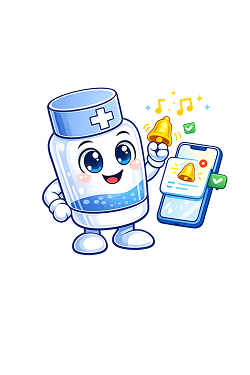
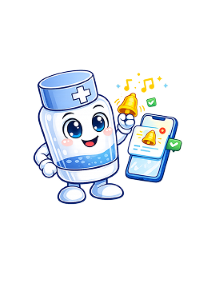
feat: Add allow notifications

diff --git a/frontend/lib/features/doctor/features/complete_profile/presentation/widgets/permission_sheet.dart b/frontend/lib/features/doctor/features/complete_profile/presentation/widgets/permission_sheet.dart
@@ -1,0 +1,120 @@
+import 'dart:ui';
+
+import 'package:flutter/material.dart';
+import 'package:flutter_svg/svg.dart';
+import 'package:medi/core/constants/app_assets.dart';
+import 'package:medi/core/constants/app_colors.dart';
+import 'package:medi/core/constants/app_sizes.dart';
+import 'package:medi/core/widgets/primary_button.dart';
+
+class PermissionSheet extends StatefulWidget {
+  const PermissionSheet({super.key});
+
+  @override
+  State<PermissionSheet> createState() => _PermissionSheetState();
+}
+
+class _PermissionSheetState extends State<PermissionSheet>
+    with SingleTickerProviderStateMixin {
+  late AnimationController controller;
+  late Animation<double> scale;
+  late Animation<double> opacity;
+
+  @override
+  void initState() {
+    super.initState();
+
+    controller = AnimationController(
+      vsync: this,
+      duration: const Duration(milliseconds: 350),
+    );
+
+    scale = Tween(
+      begin: .9,
+      end: 1.0,
+    ).animate(CurvedAnimation(parent: controller, curve: Curves.easeOutBack));
+
+    opacity = Tween(begin: 0.0, end: 1.0).animate(controller);
+
+    controller.forward();
+  }
+
+  @override
+  Widget build(BuildContext context) {
+    return SafeArea(
+      child: Padding(
+        padding: EdgeInsets.all(AppSizes.w16),
+        child: 
+             ScaleTransition(
+              scale: scale,
+              child: Container(
+                padding: const EdgeInsets.all(22),
+                decoration: BoxDecoration(
+                  color: Colors.white,
+                  borderRadius: BorderRadius.all(Radius.circular(AppSizes.r40)),
+                  boxShadow: [
+                    BoxShadow(
+                      blurRadius: 30,
+                      color: Colors.black12,
+                      offset: Offset(0, -5),
+                    ),
+                  ],
+                ),
+                child: Column(
+                  crossAxisAlignment: CrossAxisAlignment.stretch,
+                  mainAxisSize: MainAxisSize.min,
+                  children: [
+                    SvgPicture.asset(
+                      AppAssets.notifications,
+                      height: AppSizes.h40,
+                    ),
+
+                    const SizedBox(height: 16),
+                    RichText(
+                      textAlign: TextAlign.center,
+                      text: TextSpan(
+                        style: TextStyle(
+                          fontSize: 17,
+                          fontWeight: FontWeight.w600,
+                          color: Colors.black,
+                        ),
+                        children: [
+                          TextSpan(text: "Allow "),
+                          TextSpan(
+                            text: "Medi",
+                            style: TextStyle(
+                              fontWeight: FontWeight.bold,
+                              color: AppColors.primaryDark,
+                            ),
+                          ),
+                          TextSpan(text: " to send you notifications?"),
+                        ],
+                      ),
+                    ),
+
+                    const SizedBox(height: 28),
+
+                    PrimaryButton(
+                      text: "Allow",
+                      onPressed: () => Navigator.pop(context),
+                    ),
+
+                    const SizedBox(height: 12),
+                    PrimaryButton(
+                      text: "Don’t allow",
+                      onPressed: () => Navigator.pop(context),
+                      backgroundColor: Colors.white,
+                      textColor: AppColors.primary,
+                    ),
+
+                    const SizedBox(height: 10),
+                  ],
+                ),
+              ),
+            ),
+          ),
+        
+      
+    );
+  }
+}

diff --git a/frontend/lib/features/doctor/features/complete_profile/presentation/screens/allow_notification_screen.dart b/frontend/lib/features/doctor/features/complete_profile/presentation/screens/allow_notification_screen.dart
@@ -1,0 +1,73 @@
+import 'package:flutter/material.dart';
+import 'package:medi/core/core.dart';
+import 'package:medi/features/auth/presentation/widgets/forgot_password_button.dart';
+import 'package:medi/core/widgets/custom_text_button2.dart';
+import 'package:medi/features/doctor/features/complete_profile/presentation/widgets/permission_sheet.dart';
+
+class AllowNotificationScreen extends StatelessWidget {
+  const AllowNotificationScreen({super.key});
+  @override
+  Widget build(BuildContext context) {
+    return Scaffold(
+      body: SafeArea(
+        child: SingleChildScrollView(
+          padding: EdgeInsets.symmetric(
+            horizontal: AppSizes.w16,
+            vertical: AppSizes.h32,
+          ),
+          child: Column(
+            crossAxisAlignment: CrossAxisAlignment.stretch,
+            children: [
+              SizedBox(height: AppSizes.h40),
+                Image.asset(
+                AppAssets.allowNotification,
+                height: AppSizes.h300,
+                fit: BoxFit.contain,
+              ),
+              // Profile Completed Title
+              Text(
+                AppStrings.stayUpdated,
+                style: AppStyles.black24700.copyWith(color: AppColors.primary),
+                textAlign: TextAlign.center,
+              ),
+              SizedBox(height: AppSizes.h16),
+              // Subtitle
+              Text(  AppStrings.turnOnNotifications,
+                style: AppStyles.tertiary14500,
+                textAlign: TextAlign.center,
+              ),
+              SizedBox(height: AppSizes.h24),
+
+            
+              // Let's Start Button
+              PrimaryButton(
+                text: AppStrings.allowNotifications,
+                onPressed: () {
+                 
+                     _showPermissionSheet(context);
+                 
+                  }
+              ),
+              SizedBox(height: AppSizes.h16),
+              CustomTextButton2(
+                route: AppRouter.mainLayout,
+                label: AppStrings.noThanks,
+              )
+            ],
+          ),
+        ),
+      ),
+    );
+  }
+}
+void _showPermissionSheet(
+    BuildContext context,
+    ) {
+  showModalBottomSheet(
+    context: context,
+    backgroundColor: Colors.transparent,
+    isScrollControlled: true,
+     barrierColor: Colors.black.withOpacity(0.5),
+    builder: (_) => const PermissionSheet(),
+  );
+}

diff --git a/frontend/lib/core/utils/app_router.dart b/frontend/lib/core/utils/app_router.dart
@@ -20,6 +20,7 @@ import 'package:medi/features/auth/presentation/screens/sign_up_screen.dart';
 import 'package:medi/features/auth/presentation/screens/sing_in_screen.dart';
 import 'package:medi/features/doctor/features/complete_profile/presentation/controller/q_flow/q_flow_cubit.dart';
 import 'package:medi/features/doctor/features/complete_profile/presentation/screens/allow_location_screen.dart';
+import 'package:medi/features/doctor/features/complete_profile/presentation/screens/allow_notification_screen.dart';
 import 'package:medi/features/doctor/features/complete_profile/presentation/screens/doctor_complete_profile.dart';
 import 'package:medi/features/doctor/features/complete_profile/presentation/screens/enter_location_manually.dart';
 import 'package:medi/features/doctor/features/complete_profile/presentation/widgets/q_flow.dart';
@@ -74,6 +75,7 @@ class AppRouter {
   static const String manualLocationScreen = '/doctor/manualLocation';
   static const String doctorProfileCompletedScreen = '/doctor/ProfileCompleted';
   static const String qFlowScreen = '/doctor/qFlow';
+  static const String allowNotificationScreen = '/doctor/allowNotification';
 
   // ========== DEPRECATED ==========
   static const String emailLoginScreen = '/emailLogin';
@@ -222,6 +224,10 @@ class AppRouter {
         builder: (context, state) =>
             BlocProvider(create: (context) => QFlowCubit(), child: QFlow()),
       ),
+        GoRoute(
+          path: allowNotificationScreen,
+          builder: (context, state) =>  AllowNotificationScreen(),
+        ),
 
       // ========== SHARED AUTH ROUTES ==========
       GoRoute(

diff --git a/frontend/lib/features/doctor/features/complete_profile/presentation/screens/allow_location_screen.dart b/frontend/lib/features/doctor/features/complete_profile/presentation/screens/allow_location_screen.dart
@@ -4,6 +4,7 @@ import 'package:go_router/go_router.dart';
 import 'package:medi/core/core.dart';
 import 'package:medi/features/doctor/features/complete_profile/presentation/controller/cubit/location_cubit.dart';
 import 'package:medi/features/doctor/features/complete_profile/presentation/controller/cubit/location_state.dart';
+import 'package:medi/core/widgets/custom_text_button2.dart';
 
 class AllowLocationScreen extends StatelessWidget {
   const AllowLocationScreen({super.key});
@@ -82,18 +83,9 @@ class AllowLocationScreen extends StatelessWidget {
 
                 SizedBox(height: AppSizes.h24),
 
-                TextButton(
-                  onPressed: () {
-                    context.go(AppRouter.manualLocationScreen);
-                  },
-                  child: Text(
-                    AppStrings.enterLocationManually,
-                    style: TextStyle(
-                      color: AppColors.primary,
-                      fontSize: AppSizes.sp16,
-                      fontWeight: FontWeight.w600,
-                    ),
-                  ),
+                CustomTextButton2(
+                  label: AppStrings.enterLocationManually,
+                  route: AppRouter.manualLocationScreen,
                 ),
               ],
             ),

diff --git a/frontend/lib/core/widgets/custom_text_button2.dart b/frontend/lib/core/widgets/custom_text_button2.dart
@@ -1,0 +1,37 @@
+import 'package:flutter/material.dart';
+import 'package:go_router/go_router.dart';
+import 'package:medi/core/core.dart';
+
+class CustomTextButton2 extends StatelessWidget {
+  final String label;
+  final String route;
+  final Color? textColor;
+  final double? fontSize;
+  final FontWeight? fontWeight;
+
+  const CustomTextButton2({
+    super.key,
+    this.label = 'Enter Location Manually',
+    required this.route,
+    this.textColor=AppColors.primary,
+    this.fontSize,
+    this.fontWeight=FontWeight.w600,
+  });
+
+  @override
+  Widget build(BuildContext context) {
+    return TextButton(
+      onPressed: () {
+        context.go(route);
+      },
+      child: Text(
+        label,
+        style: TextStyle(
+          color: textColor ,
+          fontSize: fontSize ?? AppSizes.sp16,
+          fontWeight: fontWeight,
+        ),
+      ),
+    );
+  }
+}

diff --git a/frontend/lib/features/doctor/features/complete_profile/presentation/screens/q2_set_appointment_type_screen.dart b/frontend/lib/features/doctor/features/complete_profile/presentation/screens/q2_set_appointment_type_screen.dart
@@ -1,5 +1,6 @@
 import 'package:flutter/material.dart';
 import 'package:flutter_bloc/flutter_bloc.dart';
+import 'package:go_router/go_router.dart';
 import 'package:medi/core/core.dart';
 import 'package:medi/core/widgets/q_text_fileld.dart';
 import 'package:medi/features/doctor/constants/constants.dart';
@@ -51,9 +52,9 @@ class Q2SetAppointmentTypeScreen extends StatelessWidget {
                 
                 SizedBox(height: AppSizes.h12),
                 PrimaryButton(
-                  text: AppStrings.next,
+                  text: AppStrings.done,
                   onPressed: () {
-                    context.read<QFlowCubit>().next();
+                    context.go(AppRouter.allowNotificationScreen);
                   },
                 ),
                 SizedBox(height: AppSizes.h24),

diff --git a/frontend/lib/core/constants/app_strings.dart b/frontend/lib/core/constants/app_strings.dart
@@ -188,4 +188,13 @@ class AppStrings {
   // Payout & Withdrawal
   static const String currentBalance = "Current Balance";
   static const String availableForWithdrawal = "Available for withdrawal";
+
+  // Notifications
+  static const String stayUpdated = "Stay Updated";
+  static const String turnOnNotifications =
+      "Turn on notifications so you never miss\n important updates and patient requests.";
+  static const String allowNotifications = "Allow Notifications";
+  static const String noThanks = "No thanks, I’ll take the risk";
+  static const String youAreAllSet = "You’re all set. Let’s follow up your patients";
+  static const String okay = "Okay";
 }

diff --git a/frontend/lib/core/widgets/secondry_button.dart b/frontend/lib/core/widgets/secondry_button.dart
@@ -1,0 +1,18 @@
+import 'package:flutter/material.dart';
+
+class SecondryButton extends StatelessWidget {
+  const SecondryButton({super.key});
+
+  @override
+  Widget build(BuildContext context) {
+    return OutlinedButton(
+      onPressed: () => Navigator.pop(context),
+      style: OutlinedButton.styleFrom(
+        minimumSize: const Size(double.infinity, 55),
+        shape: RoundedRectangleBorder(borderRadius: BorderRadius.circular(30)),
+        side: const BorderSide(color: Colors.white),
+      ),
+      child: const Text("Don’t allow"),
+    );
+  }
+}

diff --git a/frontend/lib/core/widgets/primary_button.dart b/frontend/lib/core/widgets/primary_button.dart
@@ -25,8 +25,8 @@ class PrimaryButton extends StatelessWidget {
       style: ElevatedButton.styleFrom(
         backgroundColor: backgroundColor,
         disabledBackgroundColor: AppColors.disabledColor,
-
-        shape: RoundedRectangleBorder(borderRadius: borderRadius),
+        side: BorderSide(color: AppColors.primary),
+        shape: RoundedRectangleBorder(borderRadius: borderRadius,),
         padding: EdgeInsets.symmetric(vertical: 12.h, horizontal: 40.w),
         elevation: 0,
       ),

diff --git a/frontend/lib/core/constants/app_assets.dart b/frontend/lib/core/constants/app_assets.dart
@@ -24,5 +24,8 @@ class AppAssets {
   static const String home = '${path}home.svg';
   static const String dollar = '${path}dollar.svg';
   static const String notification = '${path}notification.svg';
+  static const String notifications = '${path}notifications.svg';
   static const String settings = '${path}settings.svg';
+  static const String allowNotification = '${path}allow_notification.png';
+
 }
